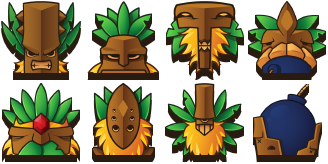
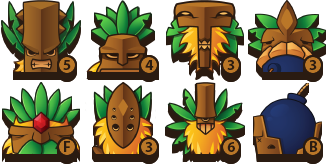
Chips art replaced

diff --git a/Proeve/Resources/ArtAssets.cs b/Proeve/Resources/ArtAssets.cs
@@ -33,15 +33,8 @@ namespace Proeve.Resources
 
         /* CHARACTERS */
         // Chips
-        private const string CAPTAIN_CHIP = "KapiteinRank4";
-        private const string MAJOOR_CHIP = "MajoorRank5";
-        private const string GENERAL_CHIP = "GeneraalRank6";
-        private const string MARSHAL_CHIP = "MaarschalkRank7";
-
-        private const string MINOR_CHIP = "MineurRank3";
-        private const string BOMB_CHIP = "BombPlaceHolder";
-
         private const string ENEMY_CHIP = "EnemyChip";
+        private const string TIKI_CHIPS_SHEET = "Tiki_Fiches_Sheet";
 
         /* UI */
         // Buttons
@@ -144,13 +137,13 @@ namespace Proeve.Resources
         {
             /* CHARACTERS */
             // Chips
-            captainChipTexture.Load(CHIPS_PATH, CAPTAIN_CHIP);
-            majoorChipTexture.Load(CHIPS_PATH, MAJOOR_CHIP);
-            generalChipTexture.Load(CHIPS_PATH, GENERAL_CHIP);
-            marshalChipTexture.Load(CHIPS_PATH, MARSHAL_CHIP);
+            captainChipTexture.Load(CHIPS_PATH, TIKI_CHIPS_SHEET);
+            majoorChipTexture.Load(CHIPS_PATH, TIKI_CHIPS_SHEET);
+            generalChipTexture.Load(CHIPS_PATH, TIKI_CHIPS_SHEET);
+            marshalChipTexture.Load(CHIPS_PATH, TIKI_CHIPS_SHEET);
 
-            minorChipTexture.Load(CHIPS_PATH, MINOR_CHIP);
-            bombChipTexture.Load(CHIPS_PATH, BOMB_CHIP);
+            minorChipTexture.Load(CHIPS_PATH, TIKI_CHIPS_SHEET);
+            bombChipTexture.Load(CHIPS_PATH, TIKI_CHIPS_SHEET);
 
             enemyChipTexture.Load(CHIPS_PATH, ENEMY_CHIP);
 
@@ -183,13 +176,13 @@ namespace Proeve.Resources
         {
             /* CHARACTERS */
             // Chips
-            captainChipSprite = new Sprite(captainChipTexture);
-            majoorChipSprite = new Sprite(majoorChipTexture);
-            generalChipSprite = new Sprite(generalChipTexture);
-            marshalChipSprite = new Sprite(marshalChipTexture);
+            captainChipSprite = new Sprite(captainChipTexture, new Rectangle(82, 0, 82, 82));
+            majoorChipSprite = new Sprite(majoorChipTexture, new Rectangle(0, 0, 82, 82));
+            generalChipSprite = new Sprite(generalChipTexture, new Rectangle(82*2, 82, 82, 82));
+            marshalChipSprite = new Sprite(marshalChipTexture, new Rectangle(0, 82, 82, 82));
 
-            minorChipSprite = new Sprite(minorChipTexture);
-            bombChipSprite = new Sprite(bombChipTexture);
+            minorChipSprite = new Sprite(minorChipTexture, new Rectangle(82*3, 0, 82, 82));
+            bombChipSprite = new Sprite(bombChipTexture, new Rectangle(82*3, 82, 82, 82));
 
             enemyChipSprite = new Sprite(enemyChipTexture);
 
